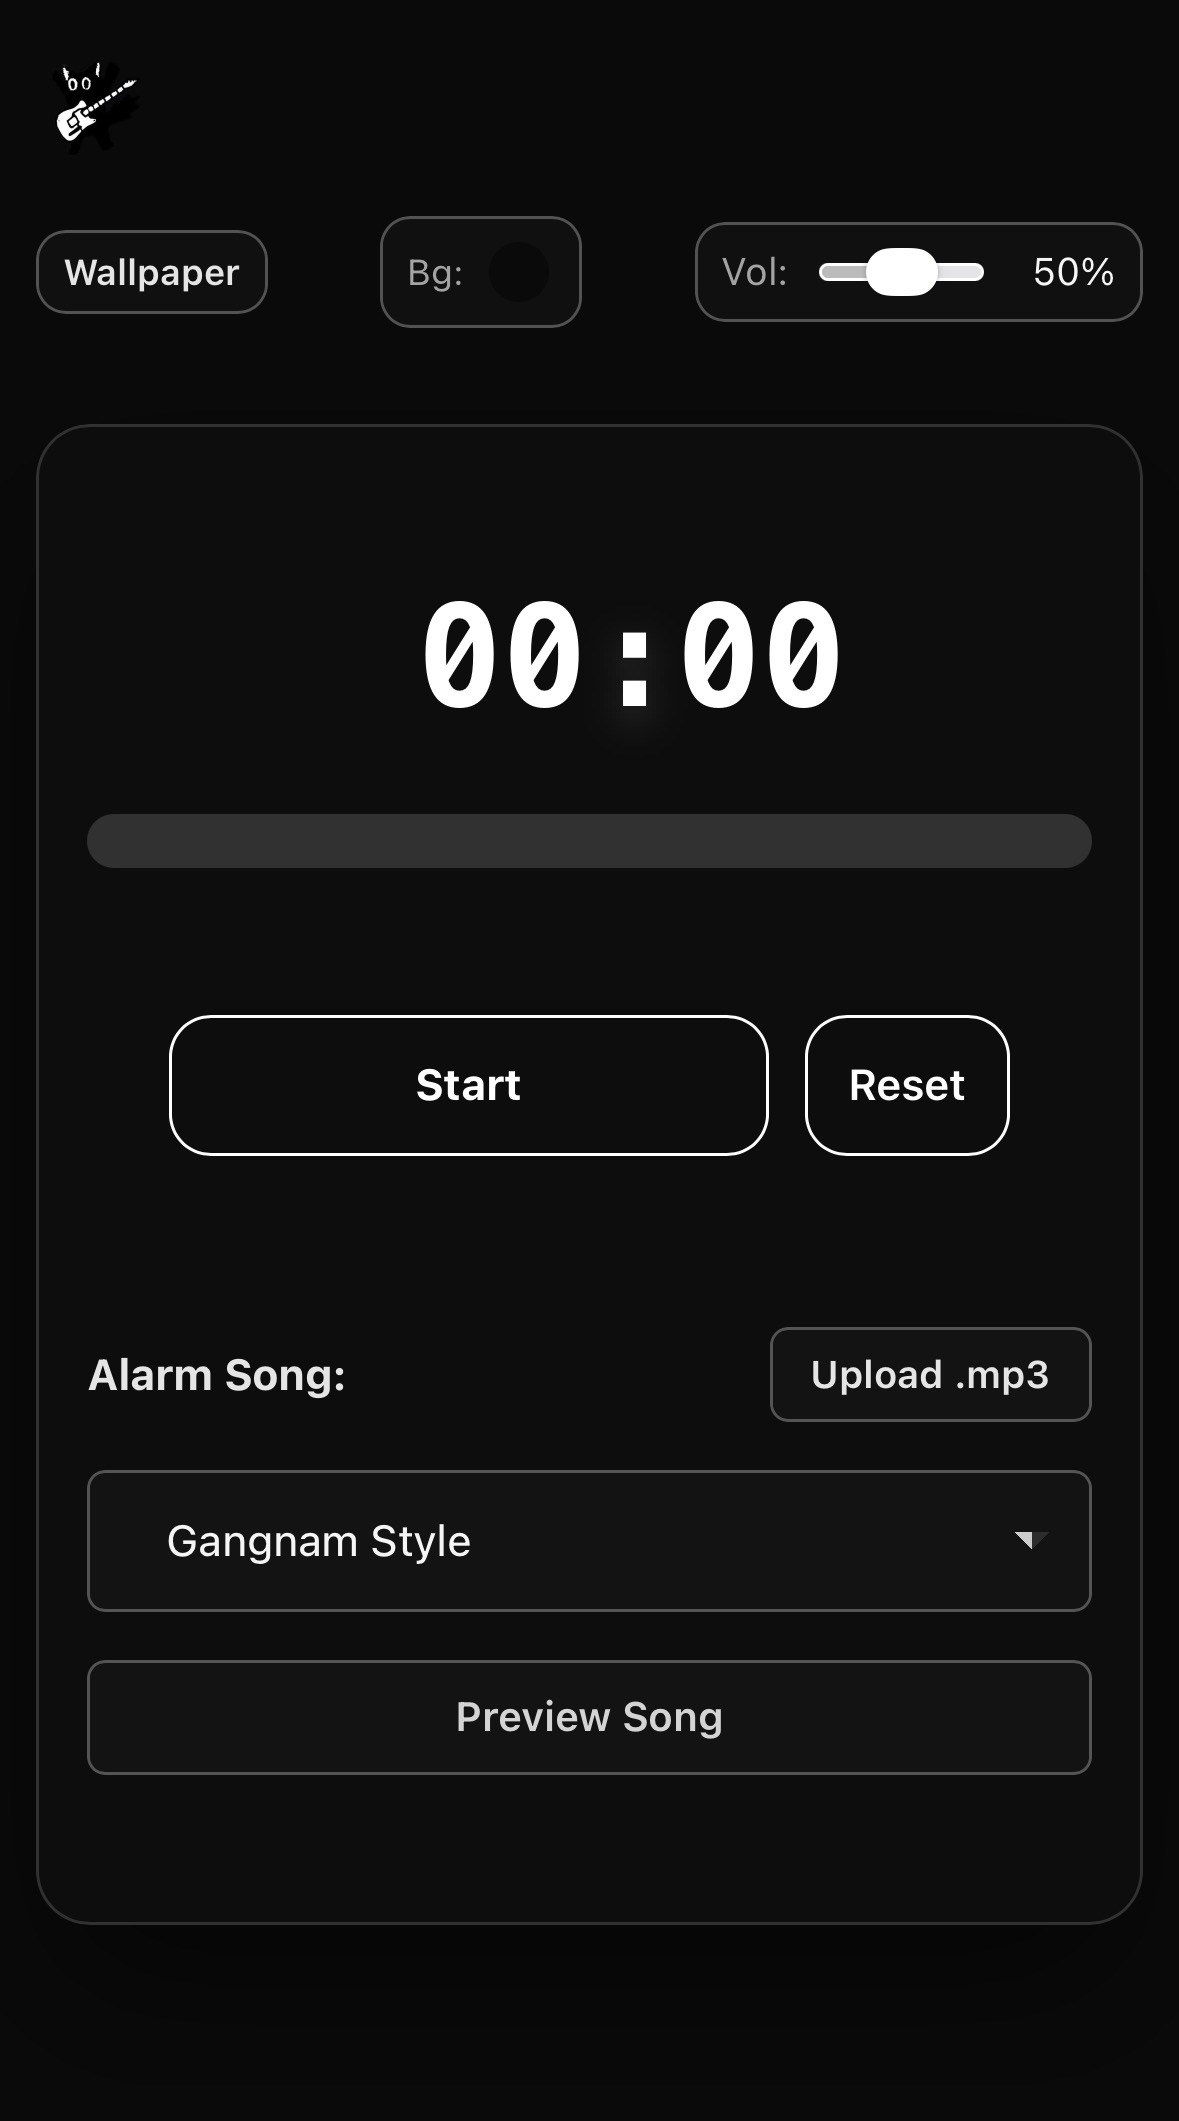
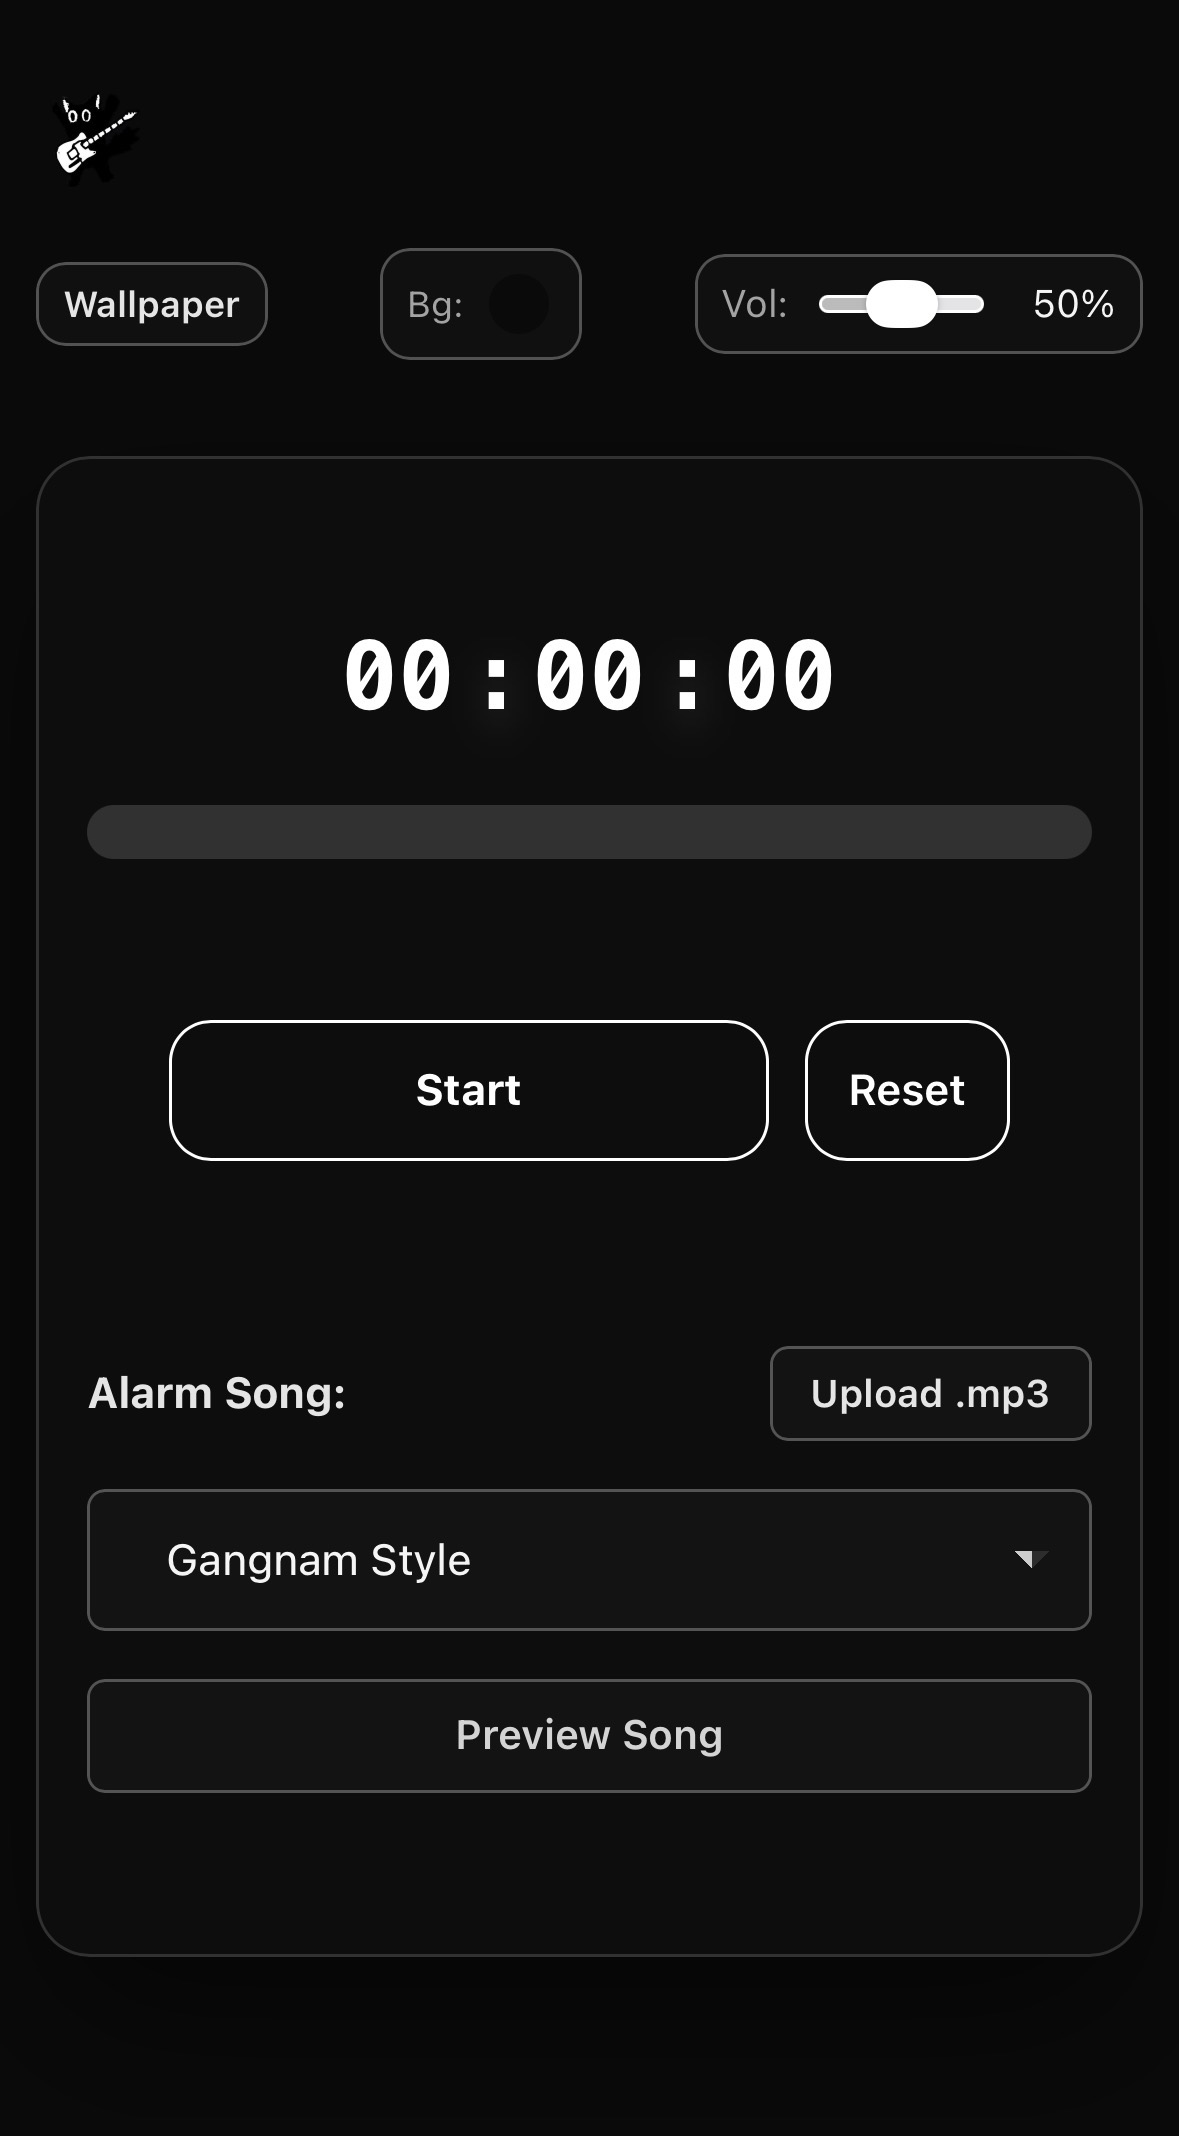
README Update

diff --git a/README.md b/README.md
@@ -1,5 +1,8 @@
 # Timer
 ## A simple customizable timer!
+[Live at]()
+[Hackatime](https://hackatime.hackclub.com/@Mirka/project/Timer)
+
 Built using HTML, CSS and JavaScript (no external dependencies)
 
 Have you ever been annoyed by your phone's timer?
@@ -16,17 +19,17 @@ This project lets you choose your own alarm music and change the background :D
 
 ## Preview:
 On Desktop
-![image alt](https://github.com/Mirka-0/Timer/blob/0c724104c962e700a47771fcfd9713f1a2d6d657/screenshots/Comp.png)
+![image alt]()
 
 On Mobile
-![image alt](https://github.com/Mirka-0/Timer/blob/0c724104c962e700a47771fcfd9713f1a2d6d657/screenshots/Phone.jpg)
+![image alt]()
 
 
 ## How to use:
 1. Enter the time you want.
-2. Choose a song from the menu or upload your own audio (first preview the sound, otherwise it wond play the audio).
+2. Choose a song from the menu or upload your own audio (first preview the sound, otherwise it won't play the audio).
 3. Adjust the volume and customize the background if you want.
-4. Click Start to begin the countdown. 
+4. Click Start to begin the countdown!
 5. Use Pause or Reset whenever you need to.
 6. Once the timer finishes your alarm will play, you can choose Stop Alarm or Snooze to postpone it for five minutes :D
 
@@ -51,14 +54,16 @@ On Mobile
 ## Notes
 * Everything runs directly in your browser!
 you can add a .png image on top of the background of color, but make sure that you pick the color first and then upload ypur png :D
-* Uploaded backgrounds and audio files are temporary, I'll add a backend on the next version.
-* Some browsers could restrict automatic audio playback, so please check if yours does.
+* Your settings, music(uploaded) and backgrounds(uploaded) are saved locally in your browser.
+* Some browsers could restrict automatic audio playback, so please check if yours does(especially on phones).
 * Volume warning! If you choose F1 Max Heart Attack please lower your volume before previewing D: it's REALLY loud
 
+## About the project
 The idea was born after realizing that my phone's timer would:
 a) Give me a heart attack with its horrible alarm sound because I can't buy a nice ringtone.
 b) When it's time for the timer to ring, sometimes it just doesn't make any sound at all ._.
 Maybe I sould make an alarm clock next 
+While working in this project I had the opportunity to retake practice on HTML, CSS, JavaScript(specially storage)
 
 
 ##Copyright for the audios
